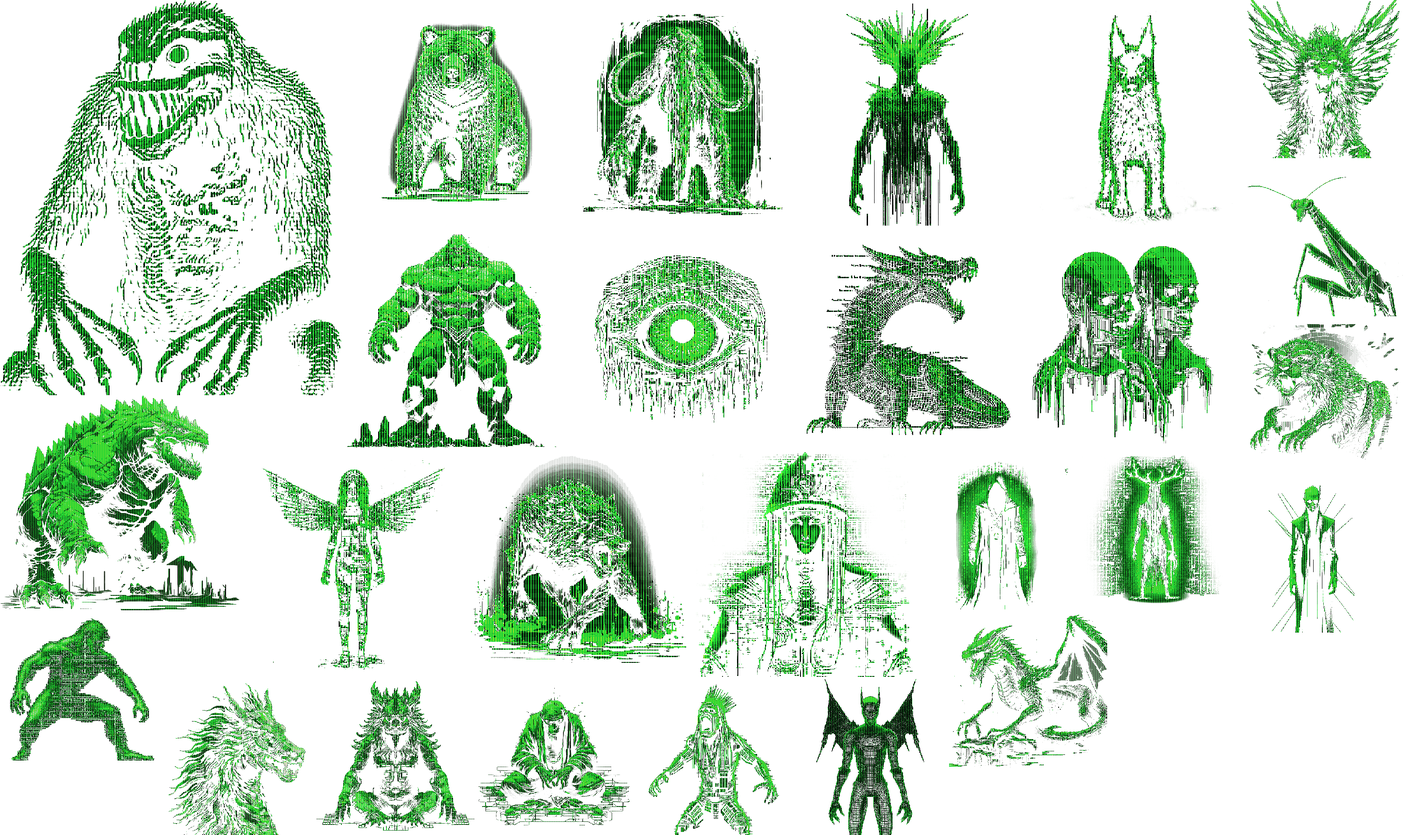
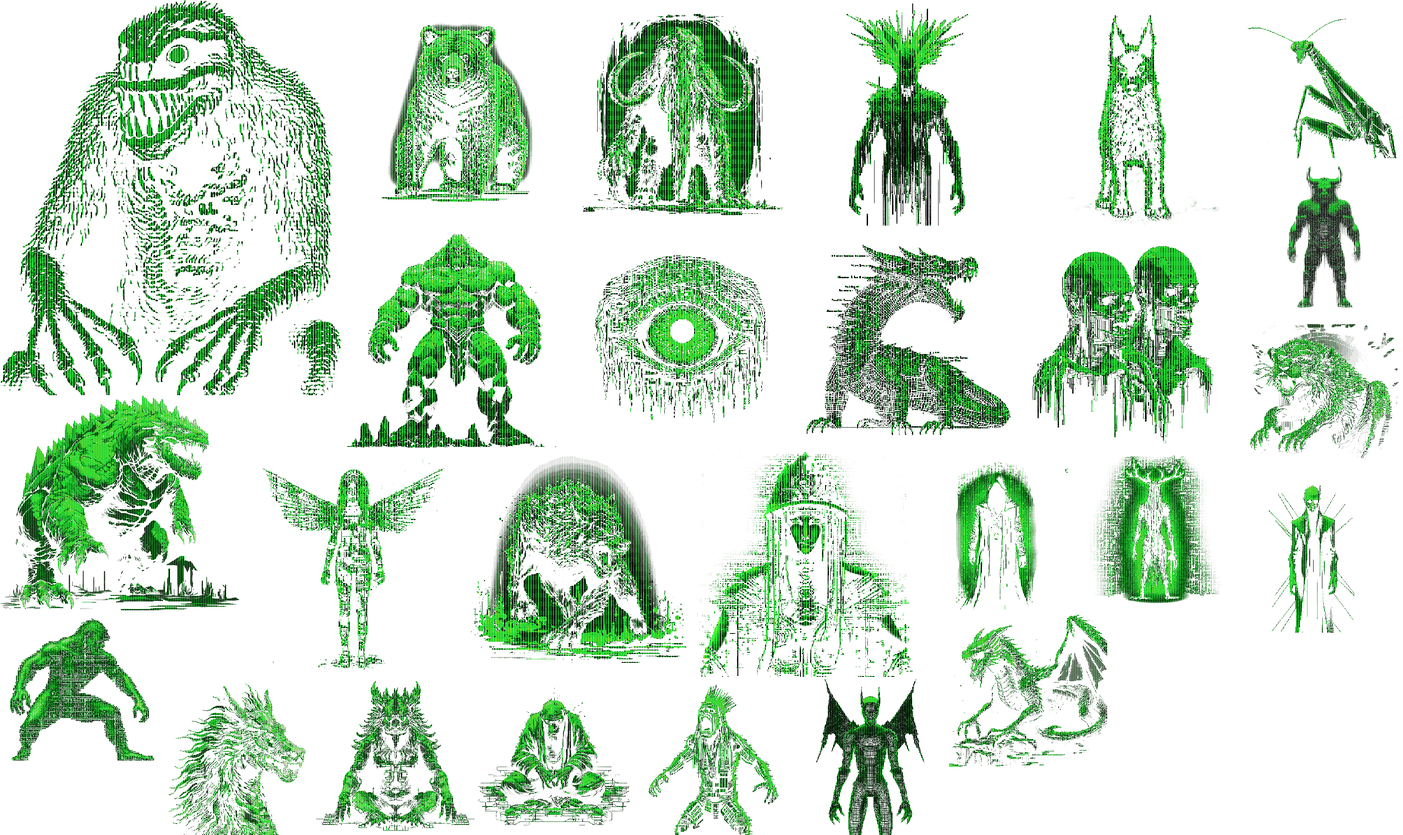
chore: update animation config

Changed region(s): [[0.8745, 0.0, 0.9994, 0.3715]]

diff --git a/packages/client/src/phaser/config/animationConfig.ts b/packages/client/src/phaser/config/animationConfig.ts
@@ -13,23 +13,263 @@ type AnimationsConfig = {
 
 const baseAnimations: AnimationsConfig = [
     {
-        key: Animations.PegasusIdle,
+        key: Animations.MinotaurIdle,
         assetKey: Assets.MainAtlas,
         startFrame: 0,
         endFrame: 1,
         frameRate: 1,
         repeat: -1,
-        prefix: "pegasus/",
+        prefix: "minotaur/",
         suffix: ".png",
     },
     {
-        key: Animations.SpriteIdle,
+        key: Animations.ColossusIdle,
         assetKey: Assets.MainAtlas,
         startFrame: 0,
         endFrame: 1,
         frameRate: 1,
         repeat: -1,
-        prefix: "sprite/",
+        prefix: "colossus/",
+        suffix: ".png",
+    },
+    {
+        key: Animations.BehemothIdle,
+        assetKey: Assets.MainAtlas,
+        startFrame: 0,
+        endFrame: 1,
+        frameRate: 1,
+        repeat: -1,
+        prefix: "behemoth/",
+        suffix: ".png",
+    },
+    {
+        key: Animations.WyvernIdle,
+        assetKey: Assets.MainAtlas,
+        startFrame: 0,
+        endFrame: 1,
+        frameRate: 1,
+        repeat: -1,
+        prefix: "wyvern/",
+        suffix: ".png",
+    },
+    {
+        key: Animations.BerserkerIdle,
+        assetKey: Assets.MainAtlas,
+        startFrame: 0,
+        endFrame: 1,
+        frameRate: 1,
+        repeat: -1,
+        prefix: "berserker/",
+        suffix: ".png",
+    },
+    {
+        key: Animations.GolemIdle,
+        assetKey: Assets.MainAtlas,
+        startFrame: 0,
+        endFrame: 1,
+        frameRate: 1,
+        repeat: -1,
+        prefix: "golem/",
+        suffix: ".png",
+    },
+    {
+        key: Animations.BearIdle,
+        assetKey: Assets.MainAtlas,
+        startFrame: 0,
+        endFrame: 1,
+        frameRate: 1,
+        repeat: -1,
+        prefix: "bear/",
+        suffix: ".png",
+    },
+    {
+        key: Animations.KitsuneIdle,
+        assetKey: Assets.MainAtlas,
+        startFrame: 0,
+        endFrame: 1,
+        frameRate: 1,
+        repeat: -1,
+        prefix: "kitsune/",
+        suffix: ".png",
+    },
+    {
+        key: Animations.NueIdle,
+        assetKey: Assets.MainAtlas,
+        startFrame: 0,
+        endFrame: 1,
+        frameRate: 1,
+        repeat: -1,
+        prefix: "nue/",
+        suffix: ".png",
+    },
+    {
+        key: Animations.CyclopsIdle,
+        assetKey: Assets.MainAtlas,
+        startFrame: 0,
+        endFrame: 1,
+        frameRate: 1,
+        repeat: -1,
+        prefix: "cyclops/",
+        suffix: ".png",
+    },
+    {
+        key: Animations.WraithIdle,
+        assetKey: Assets.MainAtlas,
+        startFrame: 0,
+        endFrame: 1,
+        frameRate: 1,
+        repeat: -1,
+        prefix: "wraith/",
+        suffix: ".png",
+    },
+    {
+        key: Animations.FairyIdle,
+        assetKey: Assets.MainAtlas,
+        startFrame: 0,
+        endFrame: 1,
+        frameRate: 1,
+        repeat: -1,
+        prefix: "fairy/",
+        suffix: ".png",
+    },
+    {
+        key: Animations.LeprechaunIdle,
+        assetKey: Assets.MainAtlas,
+        startFrame: 0,
+        endFrame: 1,
+        frameRate: 1,
+        repeat: -1,
+        prefix: "leprechaun/",
+        suffix: ".png",
+    },
+    {
+        key: Animations.DragonIdle,
+        assetKey: Assets.MainAtlas,
+        startFrame: 0,
+        endFrame: 1,
+        frameRate: 1,
+        repeat: -1,
+        prefix: "dragon/",
+        suffix: ".png",
+    },
+    {
+        key: Animations.WendigoIdle,
+        assetKey: Assets.MainAtlas,
+        startFrame: 0,
+        endFrame: 1,
+        frameRate: 1,
+        repeat: -1,
+        prefix: "wendigo/",
+        suffix: ".png",
+    },
+    {
+        key: Animations.RakshasaIdle,
+        assetKey: Assets.MainAtlas,
+        startFrame: 0,
+        endFrame: 1,
+        frameRate: 1,
+        repeat: -1,
+        prefix: "rakshasa/",
+        suffix: ".png",
+    },
+    {
+        key: Animations.VampireIdle,
+        assetKey: Assets.MainAtlas,
+        startFrame: 0,
+        endFrame: 1,
+        frameRate: 1,
+        repeat: -1,
+        prefix: "vampire/",
+        suffix: ".png",
+    },
+    {
+        key: Animations.FenrirIdle,
+        assetKey: Assets.MainAtlas,
+        startFrame: 0,
+        endFrame: 1,
+        frameRate: 1,
+        repeat: -1,
+        prefix: "fenrir/",
+        suffix: ".png",
+    },
+    {
+        key: Animations.OgreIdle,
+        assetKey: Assets.MainAtlas,
+        startFrame: 0,
+        endFrame: 1,
+        frameRate: 1,
+        repeat: -1,
+        prefix: "ogre/",
+        suffix: ".png",
+    },
+    {
+        key: Animations.WarlockIdle,
+        assetKey: Assets.MainAtlas,
+        startFrame: 0,
+        endFrame: 1,
+        frameRate: 1,
+        repeat: -1,
+        prefix: "warlock/",
+        suffix: ".png",
+    },
+    {
+        key: Animations.JiangshiIdle,
+        assetKey: Assets.MainAtlas,
+        startFrame: 0,
+        endFrame: 1,
+        frameRate: 1,
+        repeat: -1,
+        prefix: "jiangshi/",
+        suffix: ".png",
+    },
+    {
+        key: Animations.TarrasqueIdle,
+        assetKey: Assets.MainAtlas,
+        startFrame: 0,
+        endFrame: 1,
+        frameRate: 1,
+        repeat: -1,
+        prefix: "tarrasque/",
+        suffix: ".png",
+    },
+    {
+        key: Animations.ChupacabraIdle,
+        assetKey: Assets.MainAtlas,
+        startFrame: 0,
+        endFrame: 1,
+        frameRate: 1,
+        repeat: -1,
+        prefix: "chupacabra/",
+        suffix: ".png",
+    },
+    {
+        key: Animations.EttinIdle,
+        assetKey: Assets.MainAtlas,
+        startFrame: 0,
+        endFrame: 1,
+        frameRate: 1,
+        repeat: -1,
+        prefix: "ettin/",
+        suffix: ".png",
+    },
+    {
+        key: Animations.SatoriIdle,
+        assetKey: Assets.MainAtlas,
+        startFrame: 0,
+        endFrame: 1,
+        frameRate: 1,
+        repeat: -1,
+        prefix: "satori/",
+        suffix: ".png",
+    },
+    {
+        key: Animations.MantisIdle,
+        assetKey: Assets.MainAtlas,
+        startFrame: 0,
+        endFrame: 1,
+        frameRate: 1,
+        repeat: -1,
+        prefix: "mantis/",
         suffix: ".png",
     },
 ];

diff --git a/packages/client/src/phaser/config/constants.ts b/packages/client/src/phaser/config/constants.ts
@@ -7,15 +7,63 @@ export enum Maps {
 }
 
 export enum Animations {
-    PegasusIdle = "PegasusIdle",
-    SpriteIdle = "SpriteIdle",
+    MinotaurIdle = "MinotaurIdle",
+    ColossusIdle = "ColossusIdle",
+    BehemothIdle = "BehemothIdle",
+    WyvernIdle = "WyvernIdle",
+    BerserkerIdle = "BerserkerIdle",
+    GolemIdle = "GolemIdle",
+    BearIdle = "BearIdle",
+    KitsuneIdle = "KitsuneIdle",
+    NueIdle = "NueIdle",
+    CyclopsIdle = "CyclopsIdle",
+    WraithIdle = "WraithIdle",
+    FairyIdle = "FairyIdle",
+    LeprechaunIdle = "LeprechaunIdle",
+    DragonIdle = "DragonIdle",
+    WendigoIdle = "WendigoIdle",
+    RakshasaIdle = "RakshasaIdle",
+    VampireIdle = "VampireIdle",
+    FenrirIdle = "FenrirIdle",
+    OgreIdle = "OgreIdle",
+    WarlockIdle = "WarlockIdle",
+    JiangshiIdle = "JiangshiIdle",
+    TarrasqueIdle = "TarrasqueIdle",
+    ChupacabraIdle = "ChupacabraIdle",
+    EttinIdle = "EttinIdle",
+    SatoriIdle = "SatoriIdle",
+    MantisIdle = "MantisIdle",
 }
 
 // image addresses
 
 export enum Sprites {
-    Pegasus,
-    Sprite,
+    Minotaur,
+    Colossus,
+    Behemoth,
+    Wyvern,
+    Berserker,
+    Golem,
+    Bear,
+    Kitsune,
+    Nue,
+    Cyclops,
+    Wraith,
+    Fairy,
+    Leprechaun,
+    Dragon,
+    Wendigo,
+    Rakshasa,
+    Vampire,
+    Fenrir,
+    Ogre,
+    Warlock,
+    Jiangshi,
+    Tarrasque,
+    Chupacabra,
+    Ettin,
+    Satori,
+    Mantis,
 }
 
 export enum RPSSprites {
